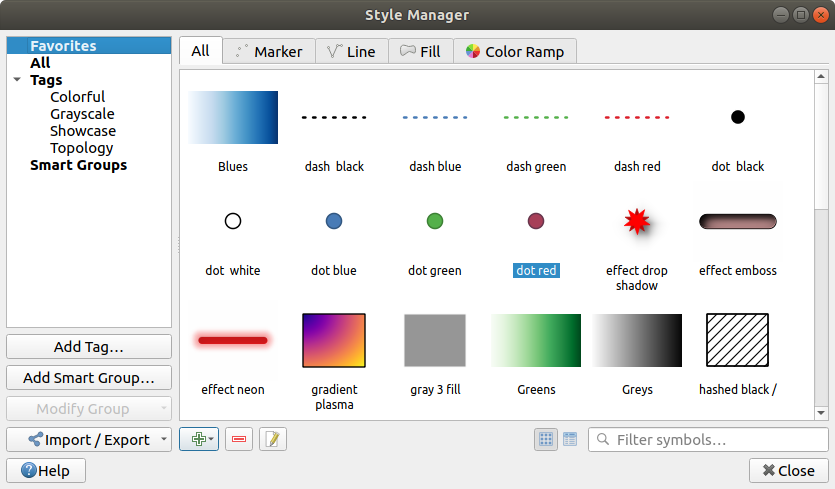
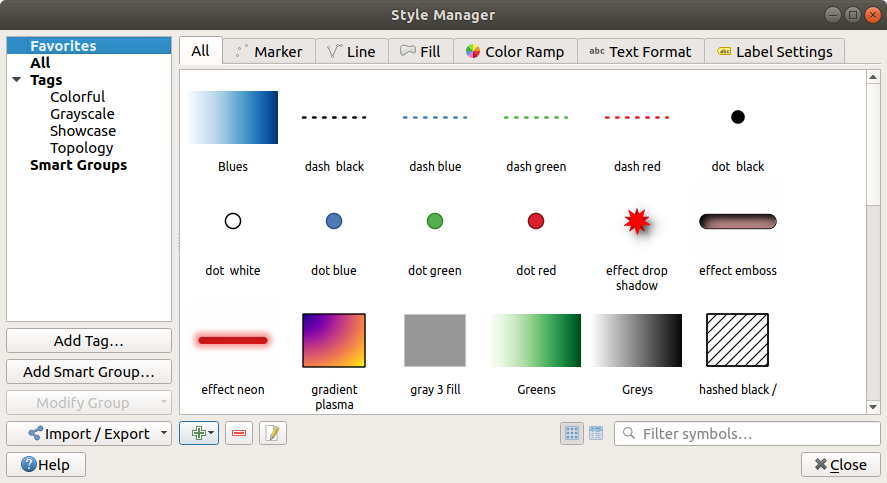
Update Style Manager dialog with new item types
* Add text format and label settings as new style types
* Update the main dialog screenshot
* Replace many occurrences of "symbols and color ramps" text
  with a more generic "style items" expression and adjust description

diff --git a/source/docs/user_manual/working_with_vector/style_library.rst b/source/docs/user_manual/working_with_vector/style_library.rst
@@ -21,22 +21,22 @@
 The Style Manager
 ==================
 
-The :guilabel:`Style Manager` is the place where users can manage and create
-generic symbols and color ramps to be used in several QGIS projects. You can
-open that modeless dialog:
+The :guilabel:`Style Manager` is the place where you can manage and create
+generic style items. These are symbols, color ramps, text formats or label
+settings that can be used to symbolize features, layers or print layouts.
+They are stored in the QGIS installation style database and shared with all
+your project files.
+Style items can also be shared with others thanks to the export/import
+capabilities of the :guilabel:`Style Manager` dialog.
 
-* with the |styleManager| :sup:`Style Manager` button of the Project toolbar;
+You can open that modeless dialog either:
+
 * from the :menuselection:`Settings -->` |styleManager| :menuselection:`Style
-  Manager...` menu;
-* or from a vector :menuselection:`Layer Properties --> Symbology` tab (using the
-  |styleManager| :sup:`Style Manager` button in a :ref:`symbol property
-  <symbol-selector>` dialog).
-
-The dialog allows you to:
-
-* create, edit and remove symbols and color ramps;
-* organize symbols and color ramps in custom groups;
-* export and import symbols and color ramps.
+  Manager...` menu
+* with the |styleManager| :sup:`Style Manager` button from the Project toolbar
+* or with the |styleManager| :sup:`Style Manager` button from a vector
+  :menuselection:`Layer Properties -->` menu (while :ref:`configuring
+  a symbol <symbol-selector>` or :ref:`formatting a text <showlabels>`).
 
 .. _figure_style_manager:
 
@@ -48,37 +48,45 @@ The dialog allows you to:
 
 .. _group_symbols:
 
-Organizing symbols and color ramps
-----------------------------------
+Organizing style items
+----------------------
 
 The :guilabel:`Style Manager` dialog displays in its center a frame with
 previewed items organized into tabs:
 
-* :guilabel:`All` for a complete collection of point, linear and surface symbols as the
-  following items allow only to display a single item group;
-* |pointLayer| :guilabel:`Marker` for point symbols;
-* |lineLayer| :guilabel:`Line` for linear symbols;
-* |polygonLayer| :guilabel:`Fill` for surface symbols;
-* and |color| :guilabel:`Color ramp`
+* :guilabel:`All` for a complete collection of point, linear and surface symbols
+  and label settings as well as predefined color ramps and text formats;
+* |pointLayer| :guilabel:`Marker` for point symbols only;
+* |lineLayer| :guilabel:`Line` for linear symbols only;
+* |polygonLayer| :guilabel:`Fill` for surface symbols only;
+* |color| :guilabel:`Color ramp`;
+* |text| :guilabel:`Text format` to manage text formats, which store the font,
+  color, buffers, shadows, and backgrounds of text formats (i.e. all the
+  formatting parts of label settings, which can be used outside of labels,
+  eg in layouts);
+* |labeling| :guilabel:`Label settings` to manage :ref:`label settings
+  <showlabels>`, which include the text formats and some layer-type specific
+  settings such as label placement, priority, rendering...
+
 
 For each family of items, you can organize the elements into different categories,
 listed in the panel on the left:
 
-* **Favorites**: displayed by default when configuring an item, it shows a
-  set of default symbols and color ramps you can extend;
-* **All**: listing all the installed symbols and color ramps;
+* **Favorites**: displayed by default when configuring an item, it shows an
+  extensible set of items;
+* **All**: lists all the available items for the active type;
 * **Tags**: shows a list of labels you can use to identify the items.
-  A symbol or color ramp can be tagged more than once. Select a tag in the list
-  and you'll see the items that belong to it for each type of item.
-  To create a new tag you could later attach to symbols or color ramps, use the
+  An item can be tagged more than once. Select a tag in the list and the tabs
+  are updated to show only their items that belong to it.
+  To create a new tag you could later attach to a set of items, use the
   :guilabel:`Add Tag...` button or select the |signPlus| :guilabel:`Add Tag...`
   from any tag contextual menu;
 * **Smart Group**: a smart group dynamically fetches its symbols according to
   conditions set (see eg, figure_smart_group_). Click the :guilabel:`Add Smart Group...`
   button to create smart groups. The dialog box allows you to enter an expression
   to filter the items to select (has a particular tag, have a string in its name,
-  etc.). Any symbol or color ramp that satisfies the entered condition(s) is
-  automatically added to the smart group.
+  etc.). Any symbol, color ramp, text format or label setting that satisfies
+  the entered condition(s) is automatically added to the smart group.
 
 
 .. _figure_smart_group:
@@ -89,19 +97,20 @@ listed in the panel on the left:
    Creating a Smart Group
 
 Tags and smart groups are not mutually exclusive: they are simply two different
-ways to organize your symbols and color ramps. 
+ways to organize your style elements. 
 Unlike the smart groups that automatically fetch their belonged items based on
-the input constraints, tags are filled by the user. To edit any of those categories,
-you can either:
+the input constraints, tags are filled by the user. To edit any of those
+categories, you can either:
 
 * select the items, right-click and choose :menuselection:`Add to Tag -->`
   and then select the tag name or create a new tag;
 * select the tag and press :menuselection:`Modify group... --> Attach Selected Tag
-  to Symbols`. A |unchecked| checkbox appears near each item to help you select
-  or deselect it. When selection is finished, press :menuselection:`Modify group... -->
-  Finish Tagging`.
-* select the smart group, press :menuselection:`Modify group... --> Edit smart group...`
-  and configure a new set of constraints in the :guilabel:`Smart Group Editor` dialog.
+  to Symbols`. A checkbox appears next to each item to help you select
+  or deselect it. When selection is finished, press :menuselection:`Modify
+  group... --> Finish Tagging`.
+* select the smart group, press :menuselection:`Modify group... --> Edit smart
+  group...` and configure a new set of constraints in the :guilabel:`Smart Group
+  Editor` dialog.
   This option is also available in the contextual menu of the smart group.
 
 To remove a tag or a smart group, right-click on it and select the |signMinus|
@@ -111,38 +120,42 @@ category.
 Adding, editing or removing an item
 -----------------------------------
 
-As seen earlier, symbols and color ramps are listed under different tabs whose
-contents depend on the active category (tag, smart group, favorites...). For each
-type of symbols (*Marker* , *Line* or *Fill*) and color ramp, when the tab is
-enabled, you can:
+As seen earlier, style elements are listed under different tabs whose
+contents depend on the active category (tag, smart group, favorites...).
+When a tab is enabled, you can:
 
 * Add new items: press the |signPlus| :sup:`Add item` button and configure the
-  item following :ref:`symbols <symbol-selector>` or :ref:`color ramps <color-ramp>`
-  builder description.
-* Modify an existing item: select an item and press |symbologyEdit| :sup:`Edit item`
-  button and configure as mentioned above. 
-* Delete existing items: to delete a symbol you no longer need, select it and click
-  |signMinus| :sup:`Remove item` (also available through right-click).
-  The symbol will be deleted from the local symbols database.
+  item following :ref:`symbols <symbol-selector>`, :ref:`color ramps
+  <color-ramp>` or :ref:`text format and label <showlabels>` builder description.
+* Modify an existing item: select an item and press |symbologyEdit| :sup:`Edit
+  item` button and configure as mentioned above. 
+* Delete existing items: to delete an element you no longer need, select it and
+  click |signMinus| :sup:`Remove item` (also available through right-click).
+  The item will be deleted from the local database.
+
+Note that the :guilabel:`All` tab provides access to these options for every type
+of item.
 
 Right-clicking over a selection of items also allows you to:
 
 * :guilabel:`Add to Favorites`;
 * :guilabel:`Remove from Favorites`;
-* :menuselection:`Add to Tag -->` and select the appropriate tag or create a new one to use;
+* :menuselection:`Add to Tag -->` and select the appropriate tag or create a new
+  one to use;
 * :guilabel:`Clear Tags`: detaching the symbols from any tag;
 * :guilabel:`Remove Item(s)`;
 * :guilabel:`Edit Item`: applies to the item you right-click over;
-* :guilabel:`Export Selected Symbol(s) as PNG...` (not available with color ramps);
-* :guilabel:`Export Selected Symbol(s) as SVG...` (not available with color ramps);
+* :guilabel:`Export Selected Symbol(s) as PNG...` (only available with symbols);
+* :guilabel:`Export Selected Symbol(s) as SVG...` (only available with symbols);
 
 .. _share_symbols:
 
-Sharing symbols and color ramps
--------------------------------
+Sharing style items
+-------------------
 
 The |sharing| :guilabel:`Import/Export` tool, at the left bottom of the Style
-Manager dialog, offers options to easily share symbols and color ramps with
+Manager dialog, offers options to easily share symbols, color ramps, text
+formats and label settings with
 others. These options are also available through right-click over the items.
 
 Exporting items
@@ -152,21 +165,23 @@ You can export a set of items to an :file:`.XML` file:
 
 #. Expand the |sharing| :guilabel:`Import/Export` drop-down menu and select
    |fileSave| :guilabel:`Export Item(s)...`
-#. Choose the symbols and color ramps you'd like to integrate. Symbol selection
-   can be done with the mouse or using a tag or group previously set.
-#. Press :guilabel:`Export` when ready. You'll be prompted to indicate the destination
-   of the saved file. The XML format generates a single file containing all the
-   selected symbols. This file can then be imported in another user's style library.
+#. Choose the items you'd like to integrate. Selection
+   can be done with the mouse or using a tag or a group previously set.
+#. Press :guilabel:`Export` when ready. You'll be prompted to indicate the
+   destination of the saved file. The XML format generates a single file
+   containing all the selected items. This file can then be imported in
+   another user's style library.
 
 .. _figure_symbol_export:
 
 .. figure:: img/export_styles.png
    :align: center
 
-   Exporting symbols and color ramps
+   Exporting style items
 
-When symbols are selected, you can also export them to :file:`.PNG` or :file:`.SVG`.
-Exporting to :file:`.PNG` or :file:`.SVG` (both not available for color ramp symbols)
+When symbols are selected, you can also export them to :file:`.PNG` or
+:file:`.SVG`. Exporting to :file:`.PNG` or :file:`.SVG` (both not available for
+other style item types)
 creates a file for each selected symbol in a given folder. The SVG folder can be
 added to the :guilabel:`SVG paths` in :menuselection:`Settings --> Options -->
 System` menu of another user, allowing him direct access to all these symbols.
@@ -174,25 +189,25 @@ System` menu of another user, allowing him direct access to all these symbols.
 Importing items
 ...............
 
-You can extend your symbols library by importing new symbols:
+You can extend your style library by importing new items:
 
 #. Expand the |sharing| :guilabel:`Import/Export` drop-down menu and select
    |fileOpen| :guilabel:`Import Item(s)` at the left bottom of the dialog.
-#. In the new dialog, indicate the source of the symbols (it can be an
+#. In the new dialog, indicate the source of the style items (it can be an
    :file:`.xml` file on the disk or a url).
 #. Set whether to |unchecked| :guilabel:`Add to favorites` the items to import.
 #. Check |unchecked| :guilabel:`Do not import embedded tags` to avoid the import
    of tags associated to the items being imported.
 #. Give the name of any :guilabel:`Additional tag(s)` to apply to the new items.
 #. Select from the preview the symbols you want to add to your library.
-#. And press **Import**.
+#. And press :guilabel:`Import`.
 
 .. _figure_symbol_import:
 
 .. figure:: img/import_styles.png
    :align: center
 
-   Importing symbols and color ramps
+   Importing style items
 
 
 .. _color-ramp:
@@ -637,6 +652,8 @@ viewing the field.
    :width: 1.5em
 .. |iconView| image:: /static/common/mActionIconView.png
    :width: 1.5em
+.. |labeling| image:: /static/common/labelingSingle.png
+   :width: 1.5em
 .. |lineLayer| image:: /static/common/mIconLineLayer.png
    :width: 1.5em
 .. |locked| image:: /static/common/locked.png
@@ -662,6 +679,8 @@ viewing the field.
 .. |styleManager| image:: /static/common/mActionStyleManager.png
    :width: 1.5em
 .. |symbologyEdit| image:: /static/common/symbologyEdit.png
+   :width: 1.5em
+.. |text| image:: /static/common/text.png
    :width: 1.5em
 .. |unchecked| image:: /static/common/checkbox_unchecked.png
    :width: 1.3em
